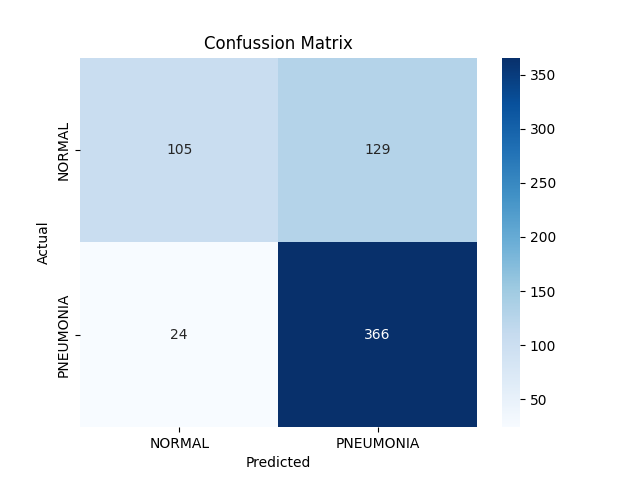
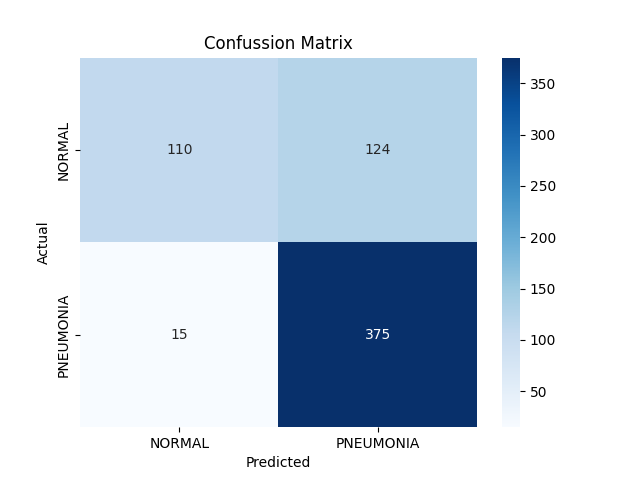
finish retraining pipeline

diff --git a/mlops/ml-pipelines/computer-vision/utils/vibe_model_register.py b/mlops/ml-pipelines/computer-vision/utils/vibe_model_register.py
@@ -29,7 +29,7 @@ def update_registered_model(run_id, f1_score, pred_acc):
         print("[ERROR] Missing required metrics. Aborting update.")
         return
 
-    model_name = "xray-binary-classification-new"
+    model_name = "xray-binary-classification-nx"
     client = MlflowClient()
 
     try:
@@ -76,7 +76,6 @@ def update_registered_model(run_id, f1_score, pred_acc):
                 client.set_model_version_tag(model_name, mv.version, "stage", "production")
 
                 old_version = latest_model.version
-                client.delete_registered_model_alias(model_name, "production")
                 client.set_registered_model_alias(model_name, "archived", old_version)
                 client.set_model_version_tag(model_name, old_version, "stage", "archived")
 
